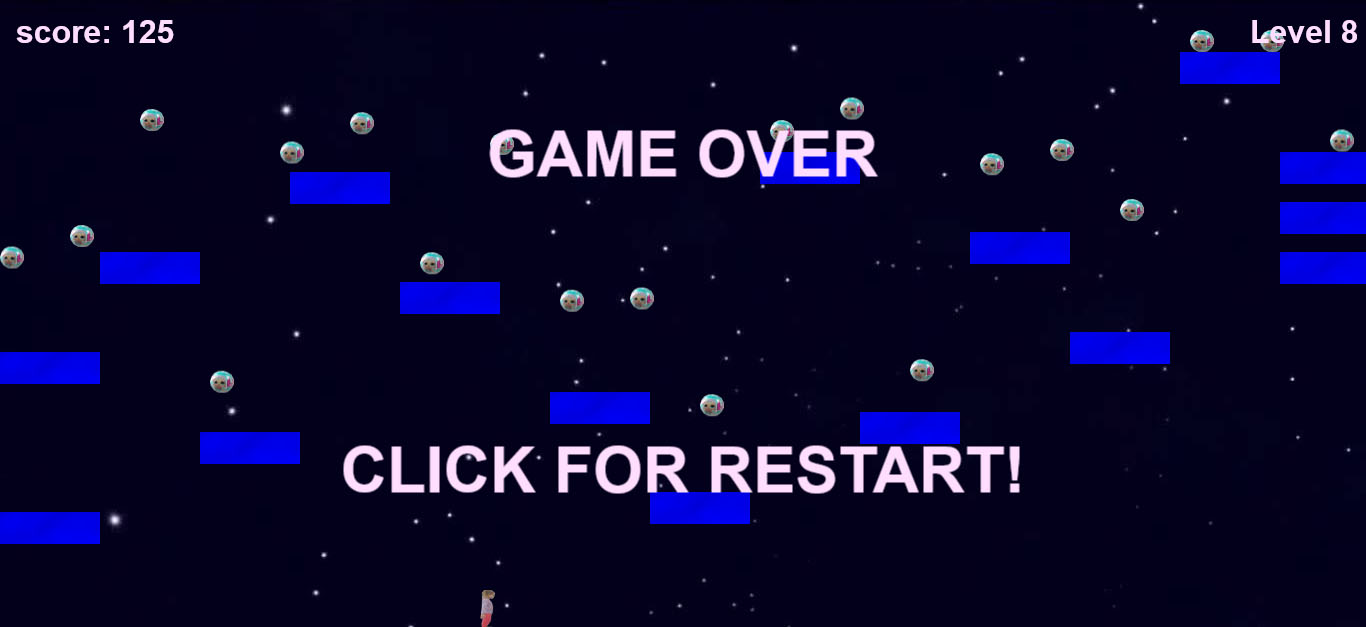
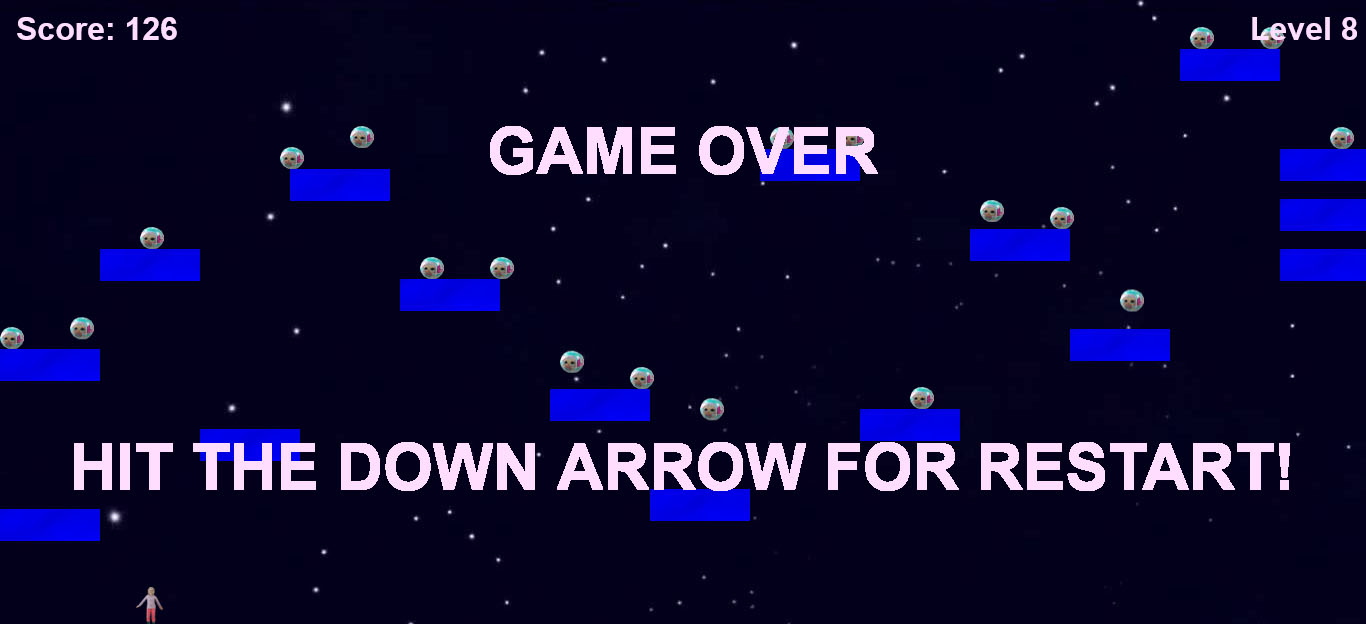
Add files via upload

diff --git a/game/js/app.js b/game/js/app.js
@@ -74,7 +74,7 @@ function create() {
     for (var i = 0; i < 20; i++)
     {
         //  Create a lol inside of the 'lols' group
-        var lol = lols.create(i * 70, 0, 'lol');
+        var lol = lols.create(i * width_screen/19.5, 0, 'lol');
 
         //  Let gravity do its thing
         lol.body.gravity.y = 300;
@@ -142,11 +142,19 @@ function update() {
 	
 	if (player.body.y > heigth_screen-50) {
 		var sound = this.game.add.audio('hurt');
-        sound.play();
+        //sound.play();
 	    setTimeout(function () {
             end();
-        },200);
+        },50);
 	}
+	
+	if (cursors.down.isDown) {return restartGame();
+	}
+}
+
+function restartGame() {
+    this.game.state.restart();
+    score = 0;
 }
 
 function win() {
@@ -159,16 +167,10 @@ function win() {
 }
 
 function end() {
-	var game_end = 'GAME OVER\n\n' + '\n\nCLICK FOR RESTART!';
+	var game_end = 'GAME OVER\n\n' + '\n\nHIT THE DOWN ARROW FOR RESTART!';
     overTxt = game.add.text(game.world.centerX, game.world.centerY, game_end, { fill: '#fdf', fontSize: '64px' , align: 'center'});
 	overTxt.anchor.x = 0.5;
     overTxt.anchor.y = 0.5;
-    game.paused = true;
-}
-
-function listener () {
-    game.paused = false;
-    starfield.inputEnabled = false;
 }
 
 function collectLol (player, lol) {

diff --git a/index.html b/index.html
@@ -176,6 +176,23 @@
                                 </div>
                             </div>
                         </li>
+						<li class="timeline-inverted">
+                            <div class="timeline-image">
+                                <img class="img-circle img-responsive" src="img/about/4.jpg" alt="">
+                            </div>
+                            <div class="timeline-panel">
+                                <div class="timeline-heading">
+                                    <h4>RESTART</h4>
+                                    <h4 class="subheading">
+                                        <span class="fa fa-arrow-down fa-2x"></span>
+                                        Down arrow
+                                    </h4>
+                                </div>
+                                <div class="timeline-body">
+                                    <p class="text-muted">Just hit the down arrow on the keyboard to make restart game.</p>
+                                </div>
+                            </div>
+                        </li>
                     </ul>
                 </div>
             </div>
